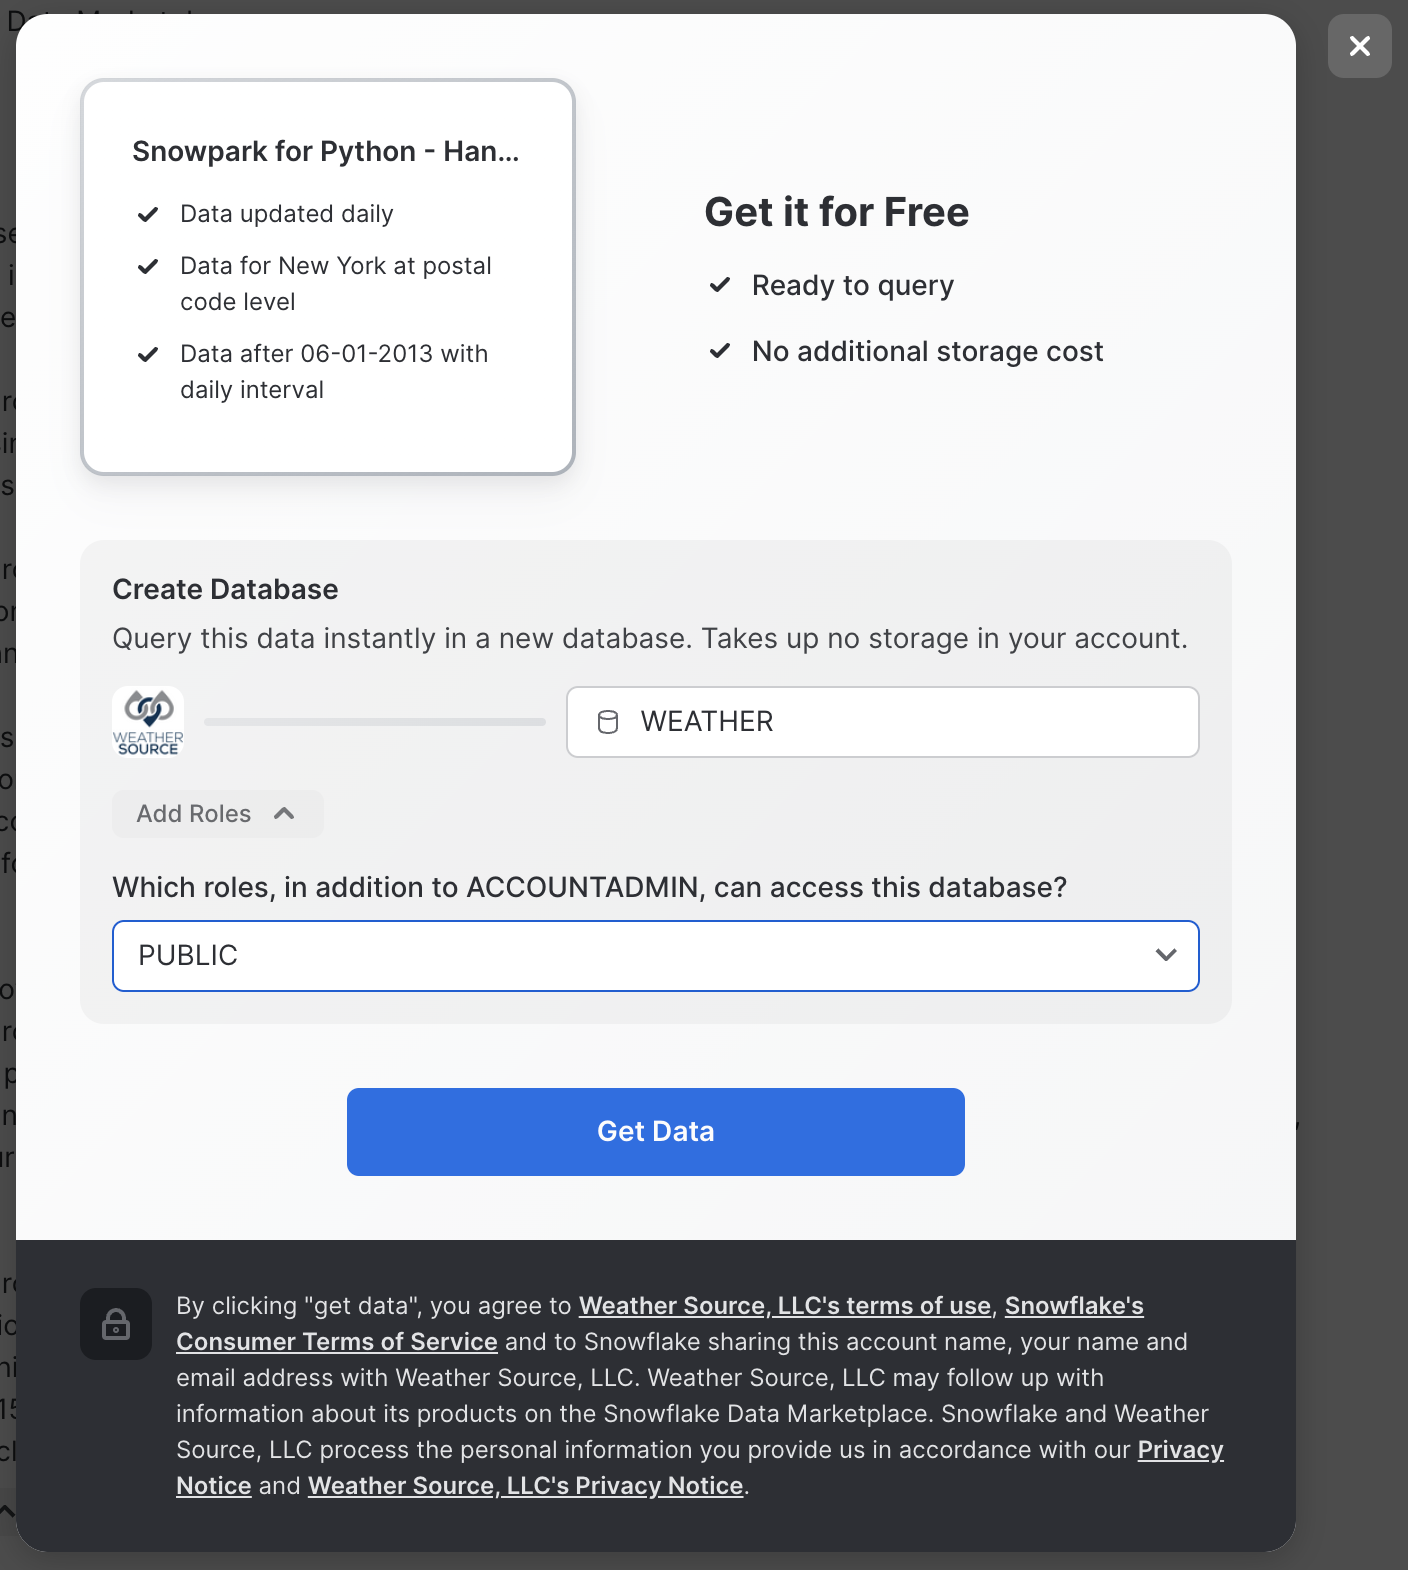
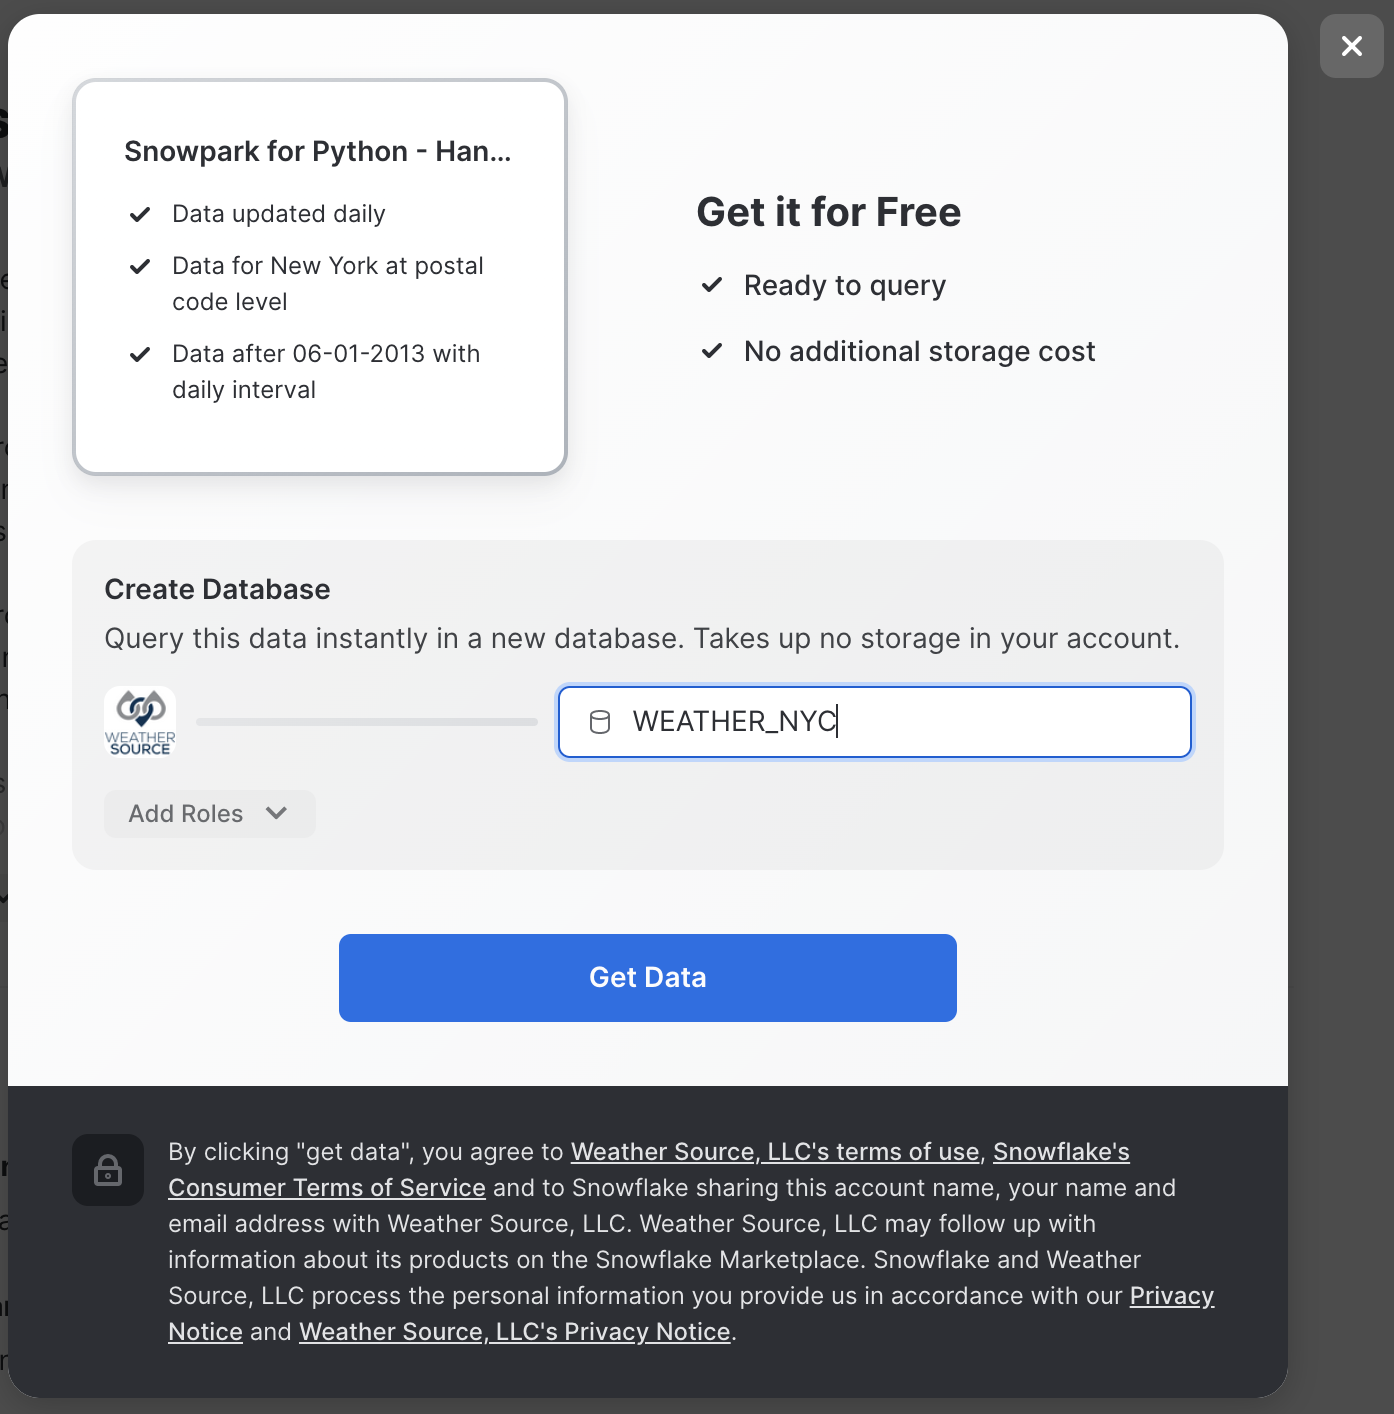
fixed weather listing state

diff --git a/dags/airflow_incremental_pipeline.py b/dags/airflow_incremental_pipeline.py
@@ -40,14 +40,13 @@ def citibikeml_monthly_taskflow(files_to_download:list, run_date:str):
 
     state_dict.update({'model_id': model_id})
     state_dict.update({'run_date': run_date})
-    state_dict.update({'weather_database_name': 'WEATHER'})
+    state_dict.update({'weather_database_name': 'WEATHER_NYC'})
     state_dict.update({'load_table_name': 'RAW_',
                        'trips_table_name': 'TRIPS',
                        'load_stage_name': 'LOAD_STAGE',
                        'model_stage_name': 'MODEL_STAGE',
-                       'weather_listing_id': 'zy74494.WEATHERSOURCE_SNOWFLAKE_SNOWPARK_TILE_SNOWFLAKE_SECURE_SHARE_1651768630709',
                        'weather_table_name': state_dict['weather_database_name']+'.ONPOINT_ID.HISTORY_DAY',
-                       'weather_view_name': 'WEATHER',
+                       'weather_view_name': 'WEATHER_NYC_VIEW',
                        'holiday_table_name': 'HOLIDAYS',
                        'clone_table_name': 'CLONE_'+model_id,
                        'feature_table_name' : 'FEATURE_'+model_id,

diff --git a/dags/mlops_monthly_pipeline.py b/dags/mlops_monthly_pipeline.py
@@ -20,14 +20,13 @@ def citibikeml_monthly_taskflow(files_to_download:list, run_date:str):
 
     state_dict.update({'model_id': model_id})
     state_dict.update({'run_date': run_date})
-    state_dict.update({'weather_database_name': 'WEATHER'})
+    state_dict.update({'weather_database_name': 'WEATHER_NYC'})
     state_dict.update({'load_table_name': 'RAW_',
                        'trips_table_name': 'TRIPS',
                        'load_stage_name': 'LOAD_STAGE',
                        'model_stage_name': 'MODEL_STAGE',
-                       'weather_listing_id': 'zy74494.WEATHERSOURCE_SNOWFLAKE_SNOWPARK_TILE_SNOWFLAKE_SECURE_SHARE_1651768630709',
                        'weather_table_name': state_dict['weather_database_name']+'.ONPOINT_ID.HISTORY_DAY',
-                       'weather_view_name': 'WEATHER',
+                       'weather_view_name': 'WEATHER_NYC_VW',
                        'holiday_table_name': 'HOLIDAYS',
                        'clone_table_name': 'CLONE_'+model_id,
                        'feature_table_name' : 'FEATURE_'+model_id,

diff --git a/dags/airflow_setup_pipeline.py b/dags/airflow_setup_pipeline.py
@@ -42,14 +42,13 @@ def citibikeml_setup_taskflow(run_date:str):
 
     state_dict.update({'model_id': model_id})
     state_dict.update({'run_date': run_date})
-    state_dict.update({'weather_database_name': 'WEATHER'})
+    state_dict.update({'weather_database_name': 'WEATHER_NYC'})
     state_dict.update({'load_table_name': 'RAW_',
                        'trips_table_name': 'TRIPS',
                        'load_stage_name': 'LOAD_STAGE',
                        'model_stage_name': 'MODEL_STAGE',
-                       'weather_listing_id': 'zy74494.WEATHERSOURCE_SNOWFLAKE_SNOWPARK_TILE_SNOWFLAKE_SECURE_SHARE_1651768630709',
                        'weather_table_name': state_dict['weather_database_name']+'.ONPOINT_ID.HISTORY_DAY',
-                       'weather_view_name': 'WEATHER',
+                       'weather_view_name': 'WEATHER_NYC_VW',
                        'holiday_table_name': 'HOLIDAYS',
                        'clone_table_name': 'CLONE_'+model_id,
                        'feature_table_name' : 'FEATURE_'+model_id,

diff --git a/dags/mlops_setup_pipeline.py b/dags/mlops_setup_pipeline.py
@@ -25,14 +25,13 @@ def citibikeml_setup_taskflow(run_date:str):
 
     state_dict.update({'model_id': model_id})
     state_dict.update({'run_date': run_date})
-    state_dict.update({'weather_database_name': 'WEATHER'})
+    state_dict.update({'weather_database_name': 'WEATHER_NYC'})
     state_dict.update({'load_table_name': 'RAW_',
                        'trips_table_name': 'TRIPS',
                        'load_stage_name': 'LOAD_STAGE',
                        'model_stage_name': 'MODEL_STAGE',
-                       'weather_listing_id': 'zy74494.WEATHERSOURCE_SNOWFLAKE_SNOWPARK_TILE_SNOWFLAKE_SECURE_SHARE_1651768630709',
                        'weather_table_name': state_dict['weather_database_name']+'.ONPOINT_ID.HISTORY_DAY',
-                       'weather_view_name': 'WEATHER',
+                       'weather_view_name': 'WEATHER_NYC_VW',
                        'holiday_table_name': 'HOLIDAYS',
                        'clone_table_name': 'CLONE_'+model_id,
                        'feature_table_name' : 'FEATURE_'+model_id,
